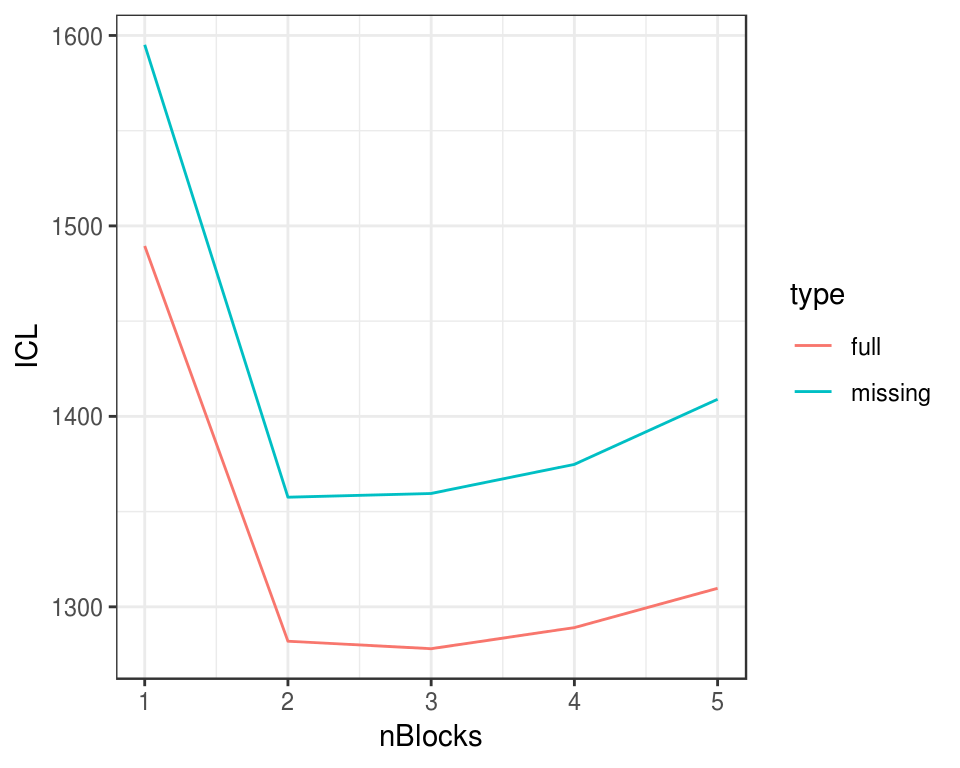
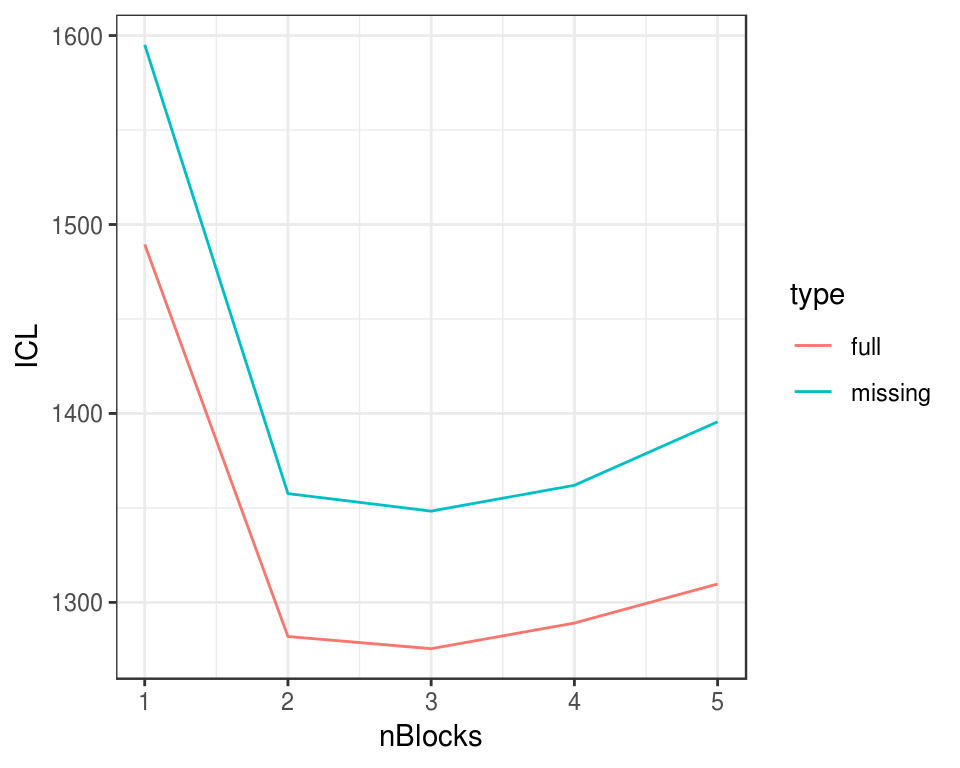
Deploy jchiquet/missSBM to github.com/jchiquet/missSBM.git:gh-pages

diff --git a/articles/case_study_war_networks.html b/articles/case_study_war_networks.html
@@ -86,7 +86,7 @@
       <h1>missSBM: a case study with war networks</h1>
                         <h4 class="author">missSBM team</h4>
             
-            <h4 class="date">2019-04-12</h4>
+            <h4 class="date">2019-04-18</h4>
       
       
       <div class="hidden name"><code>case_study_war_networks.Rmd</code></div>
@@ -178,8 +178,9 @@
 <a class="sourceLine" id="cb12-4" data-line-number="4">  )</a></code></pre></div>
 <pre><code>##    
 ##      1  2  3
-##   1  3 13  0
-##   2 32  1 34</code></pre>
+##   1 64  0  0
+##   2  0  0  9
+##   3  0 10  0</code></pre>
 </div>
 <div id="taking-the-covariates-into-account" class="section level3">
 <h3 class="hasAnchor">
@@ -205,7 +206,7 @@
 <a class="sourceLine" id="cb15-15" data-line-number="15"><span class="st">  </span><span class="kw"><a href="https://www.rdocumentation.org/packages/ggplot2/topics/ggplot">ggplot</a></span>(<span class="kw"><a href="https://www.rdocumentation.org/packages/ggplot2/topics/aes">aes</a></span>(<span class="dt">x =</span> nBlocks, <span class="dt">y =</span> ICL, <span class="dt">group =</span> type, <span class="dt">color =</span> type)) <span class="op">+</span><span class="st"> </span></a>
 <a class="sourceLine" id="cb15-16" data-line-number="16"><span class="st">    </span><span class="kw"><a href="https://www.rdocumentation.org/packages/ggplot2/topics/geom_path">geom_line</a></span>() <span class="op">+</span><span class="st"> </span><span class="kw"><a href="https://www.rdocumentation.org/packages/ggplot2/topics/ggtheme">theme_bw</a></span>()</a></code></pre></div>
 <p><img src="case_study_war_networks_files/figure-html/war%20network%20with%20covariates%20full-1.png" width="480"></p>
-<p>The military power seems to be a covariate with great influence since its effect is estimated to -7.2470492.</p>
+<p>The military power seems to be a covariate with great influence since its effect is estimated to -6.8152109.</p>
 <!-- Other way to take into account the covariate military power -->
 <!-- ```{r war network with covariate 2} -->
 <!-- nWar = nrow(beligerent_adjacency) -->
